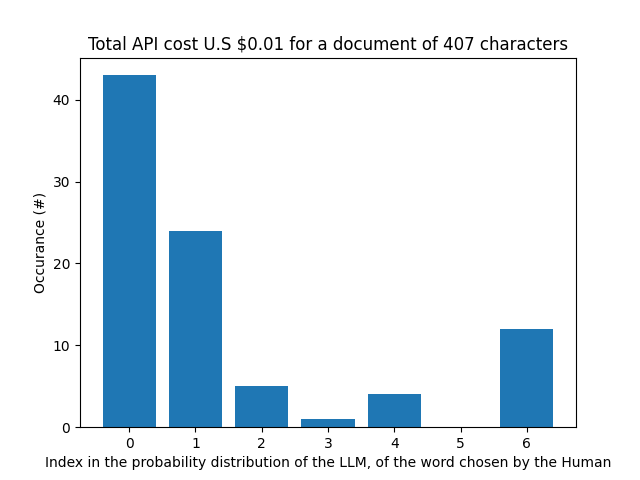
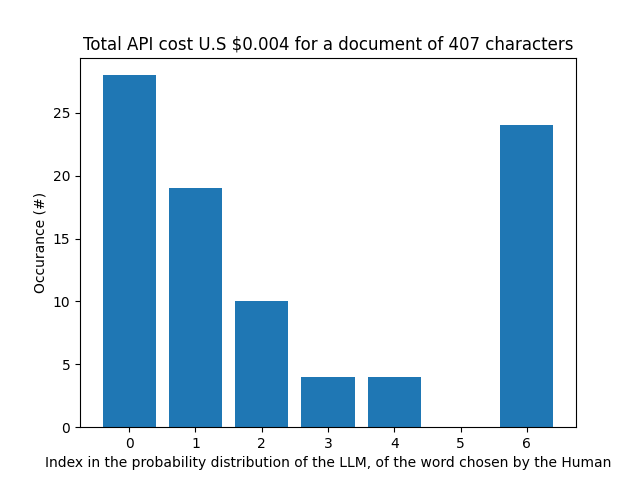
reduce the sequence window size

diff --git a/prototype.py b/prototype.py
@@ -8,7 +8,8 @@ from dotenv import load_dotenv
 import matplotlib.pyplot as plt
 
 FILE_NAME = sys.argv[1]
-TOKEN_TO_CONSIDER = 7
+FREQUENCY_BINS = 7
+SEQUENCE_WINDOW_SIZE = 10
 MODEL_ID = "davinci-002"
 
 input_tokens = output_tokens = 0
@@ -33,13 +34,16 @@ client = OpenAI(api_key=GPT_API_KEY)
 
 
 # We only consider a probability distributions of 5 tokens, and we include a bin in case the token is not found
-word_selection_distribution = [0] * TOKEN_TO_CONSIDER
+word_selection_distribution = [0] * FREQUENCY_BINS
 
 
 def iterative_word_predition(raw_tokens, encoder):
     global input_tokens, output_tokens
     for i in tqdm(range(1, len(raw_tokens))):
-        previous_sequence = encoder.decode(raw_tokens[:i])
+        if SEQUENCE_WINDOW_SIZE <= len(raw_tokens[:i]):
+            previous_sequence = encoder.decode(raw_tokens[i-SEQUENCE_WINDOW_SIZE:i])
+        else:
+            previous_sequence = encoder.decode(raw_tokens[:i])
         next_token = raw_tokens[i]
         input_prompt = prompt_template(previous_sequence)
         input_tokens += len(encoder.encode(input_prompt))
@@ -49,7 +53,7 @@ def iterative_word_predition(raw_tokens, encoder):
             max_tokens=1,
             temperature=0.7,
             seed=1234,
-            logprobs=TOKEN_TO_CONSIDER,
+            logprobs=FREQUENCY_BINS,
         )
         output_tokens += 1
         logprobs = response.choices[0].logprobs.top_logprobs

diff --git a/README.md b/README.md
@@ -4,6 +4,7 @@ This repository contains prototype code to evaluate a novel technique to identif
 
 It will illustrate the frequency with which a human chooses a word based on its position in the probability distribution generated by a LLM. The x-axis represents the rank or position of the word chosen by the human in the probability distribution generated by the LLM. For example, based on the previous sequences of tokens in the same document, if the human chose a token that the LLM predicted as the 7th most probable token, it falls into bin 6. This axis shows the number of times the human chose a word from each rank in the LLM's probability distribution. Higher bars indicate a higher frequency of words chosen from that rank. All tokens not present in the log probability distribution returned by the model API, are placed in the last frequency bin.
 
+The current Sequence Window size is of 10, which implies that each iteration considers at most 10 of the previous tokens.
 
 ## Get Started
 
@@ -60,8 +61,6 @@ For instance, ```./data/gpt4o-input.txt```, indicates a text file written by the
 
 - [ ] The API endpoint I currently rely on, is not compatible with the newer instruction fine-tuned models (GPT 4 & 3.5).
 
-- [ ] I give the model the entire previously seen text, which can become very long after parsing a document. Based on the length of the input document, it results in an exponential token consummation, which will be very costly!
-
-- [ ] Currently, no obvious visual difference is observed between samples written by humans and LLMs. It may be due to the very small size of the log probability distribution returned by the ```davinci-002``` model (usually only 5).
+- [ ] Currently, no obvious visual difference is observed between samples written by humans and LLMs. It may be due to the very small size of the log probability distribution returned by the ```davinci-002``` model (usually only 5). It may also depend on the temperature or the top_p and top_k sampling values. 
 
 - [ ] Frequencies shall be normalised over the length of the document
